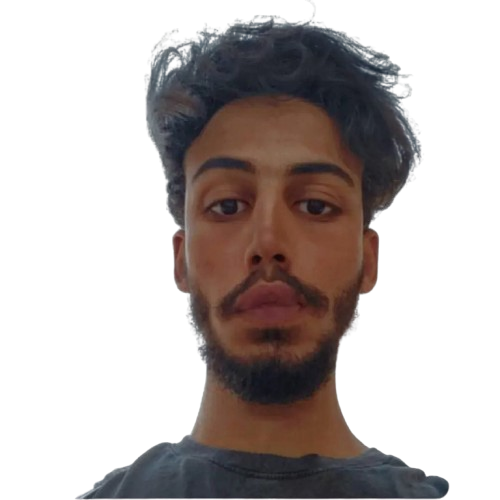
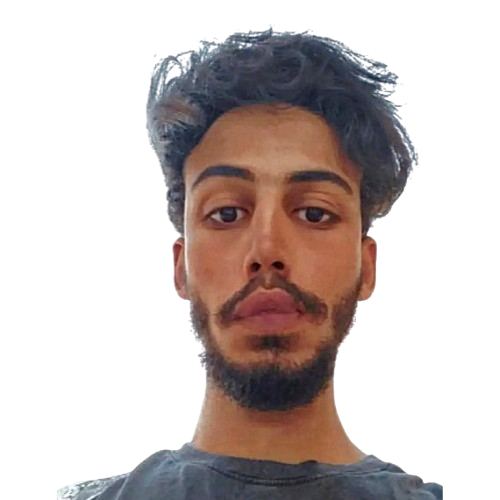
FINAL - update personal image

diff --git a/src/views/Portfolio.vue b/src/views/Portfolio.vue
@@ -96,7 +96,7 @@ const openResume = () => {
             <div data-aos="fade-right" data-aos-delay="1500"
                 class="relative w-full md:w-7/12 lg:w-6/12 text-md sm:text-3xl md:text-4xl capitalize flex flex-wrap items-center">
                 <div class="w-full py-0 md:py-12 leading-10 sm:leading-14 h-fit md:h-[8em]">
-                    <img class="block md:hidden w-[6.5em] mb-4 border-2 rounded-full grayscale-[0.3] highlighAnimate"
+                    <img class="block md:hidden w-[7.5em] mb-4 border-2 rounded-full grayscale-[0.35] highlighAnimate"
                         src="../assets/media/personal-img.png" alt="personal-img" loading="lazy">
                     <Preview />
                 </div>
@@ -115,7 +115,7 @@ const openResume = () => {
             <div class="w-5/12 lg:w-6/12 hidden md:flex justify-end items-center">
                 <div data-aos="fade-left" data-aos-delay="1500" class="relative flex justify-end">
                     <!-- Personal Image -->
-                    <img class="w-[30em] lg:w-[25em] border-l-2 rounded-l-full shadow-2xl grayscale-[0.3] highlighAnimate"
+                    <img class="w-[30em] lg:w-[25em] border-l-2 rounded-l-full shadow-2xl grayscale-[0.35] highlighAnimate"
                         src="../assets/media/personal-img.png" alt="personal-img" loading="lazy">
                     <!-- Social Links -->
                     <Social />

diff --git a/src/composables/projects.js b/src/composables/projects.js
@@ -19,7 +19,8 @@ export const projects = [
     {
         name: 'E-commerce - Ystore',
         desc: `Online Fashion store that view sellers’ fashion products for sell.
-                Admin can add or update products for sell. User can view his Orders, returns, Pay Cards, Monthly discount QRCode and order any product.`,
+                Admin can add or update products for sell. User can view his Orders, 
+                returns, Pay Cards, Monthly discount QRCode and order any product.`,
         src: 'https://ystore-fashion.netlify.app',
         src_code: 'https://github.com/Magdi-khaled/E-commerce-Ystore',
         logo: ystoreLogo,
